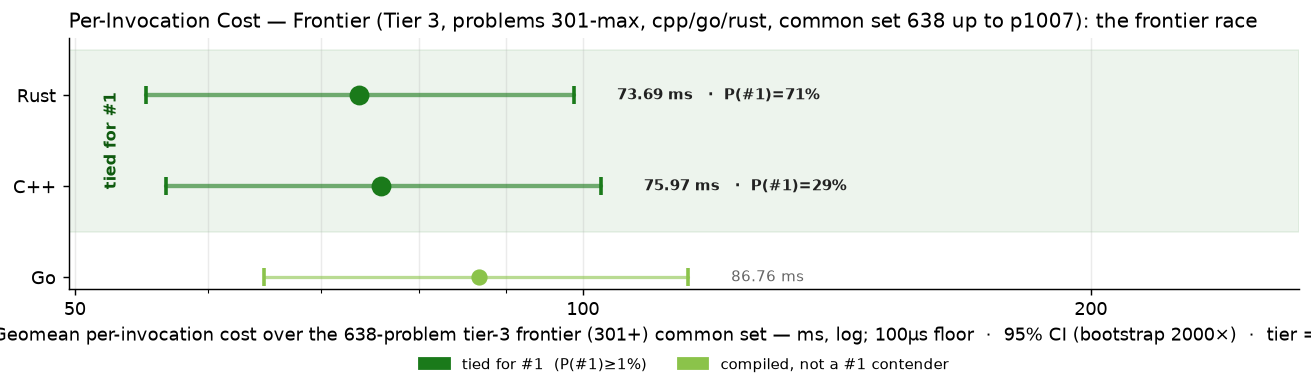
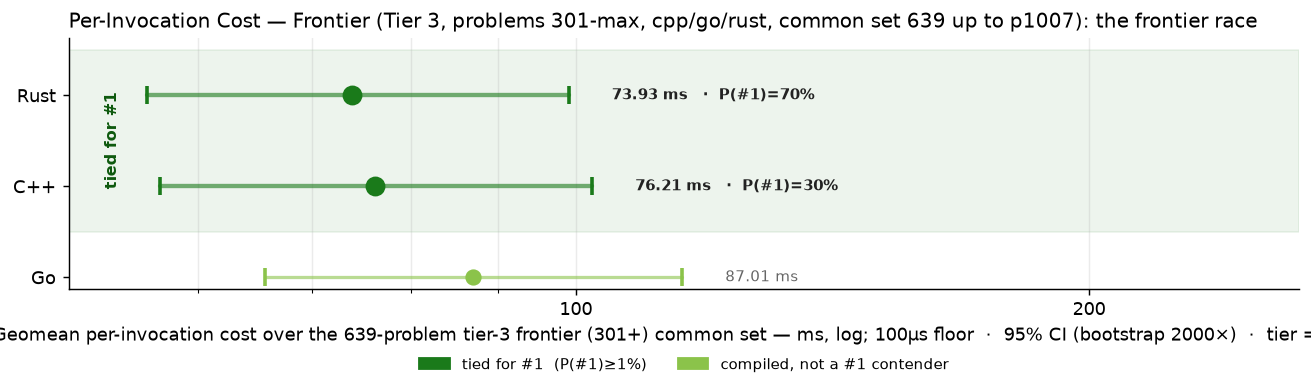
cpp p0747

diff --git a/RESULTS.md b/RESULTS.md
@@ -1,6 +1,6 @@
 # Project Euler — Cross-Language Benchmarks
 
-> **Scope: 4521 in-scope cells across 1007 problems × tiered languages — 4383 measured (96.9% coverage).**
+> **Scope: 4521 in-scope cells across 1007 problems × tiered languages — 4384 measured (97.0% coverage).**
 > The cross-language ranking below is computed over the **200-problem common set** (problems in 1-200 where every language has a passing measurement) — the apples-to-apples Foundation comparison surface.  Per-tier rankings and coverage detail appear further below.
 > Growing carefully — each new problem and language is audited for state-leak
 > safety, verified for answer correctness, and added only when it cleanly fits the
@@ -70,15 +70,15 @@ Same scatter as the Foundation chart, restricted to the tier-2 active languages 
 
 The frontier verification trio — C++, Go, Rust — on problems above 300. 3-way cross-language agreement is the verification protocol (strictly stronger than 2-way; see JOURNEY.md "Tier Reframing" episode for the p254 lesson that motivated it). Python and Zig are explicitly out of this tier — python's wall cost makes it impractical at level 5+, and zig's role caps at Tier 2.
 
-### Per-Invocation Cost (Common Set, 638 of ≤707 problems in scope)
+### Per-Invocation Cost (Common Set, 639 of ≤707 problems in scope)
 
 ![Per-Invocation Cost — Tier 3](charts/per_iter_total_tier3.png)
 
-| Rank | Language | Geomean (638-problem common set) | Total (sum) | Lines of code | vs Fastest |
+| Rank | Language | Geomean (639-problem common set) | Total (sum) | Lines of code | vs Fastest |
 |------|----------|--------------------:|------------:|--------------:|-----------:|
-| 1 | **Rust** | 73.69 ms | 1725.82 s | 126,697 | 1.00× |
-| 2 | **C++** | 75.97 ms | 1867.38 s | 92,534 | 1.03× |
-| 3 | **Go** | 86.76 ms | 2112.70 s | 117,438 | 1.18× |
+| 1 | **Rust** | 73.93 ms | 1726.39 s | 126,951 | 1.00× |
+| 2 | **C++** | 76.21 ms | 1867.95 s | 92,638 | 1.03× |
+| 3 | **Go** | 87.01 ms | 2113.28 s | 117,612 | 1.18× |
 
 ### Speed vs Code Size
 
@@ -264,7 +264,7 @@ table never silently mixes versions (METHODOLOGY.md §4).  Current state of the
 |----------|-----------|------:|---------------|
 | **ARM64** | `Apple clang version 21.0.0 (clang-2100.1.1.101)` | 200 | 2026-07-30 |
 | **C** | `Apple clang version 21.0.0 (clang-2100.1.1.101)` | 200 | 2026-07-30 |
-| **C++** | `Apple clang version 21.0.0 (clang-2100.1.1.101)` | 940 | 2026-09-05 |
+| **C++** | `Apple clang version 21.0.0 (clang-2100.1.1.101)` | 941 | 2026-09-05 |
 | **C#** | `10.0.101` | 200 | 2026-07-30 |
 | **Go** | `go version go1.26.5 darwin/arm64` | 941 | 2026-09-05 |
 | **Java** | `openjdk version "21.0.2" 2024-01-16 LTS` | 200 | 2026-07-30 |

diff --git a/per_problem/per_problem_0701-0800.md b/per_problem/per_problem_0701-0800.md
@@ -54,7 +54,7 @@ in tier-1 display order (native → managed → interpreted).
 | **p0744** | 206.7 µs | <1 µs | 35.47 ms |
 | **p0745** | 156.96 ms | 228.84 ms | 191.65 ms |
 | **p0746** | 85.15 ms | 19.62 ms | 268.79 ms |
-| **p0747** | — | 578.01 ms | 573.28 ms |
+| **p0747** | 570.23 ms | 578.01 ms | 573.28 ms |
 | **p0748** | 108.08 s | 16.30 s | 22.12 s |
 | **p0749** | 1.81 s | 445.82 ms | 2.74 s |
 | **p0750** | 373.78 ms | 133.54 ms | 273.28 ms |
